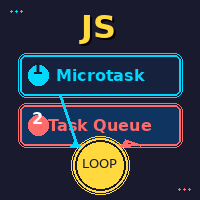
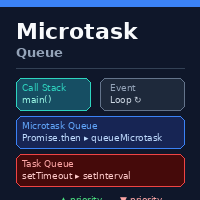
Oprava článku o microtask queue, nový náhledový obrázek
- Opraven nesmyslný příklad "Aktualizace stavu před renderingem"
  (microtask by nikdy nezobrazil "Načítání..." před aktualizací)
- Přidány tagy: js-udalosti, webove-prohlizece
- Aktualizováno datum na 2026-01-28
- Nový moderní náhledový obrázek bez překrývajících se prvků

https://claude.ai/code/session_018s2YHQ8RtaqcJzRQXFXm9V

diff --git a/content/posts/microtask-queue.md b/content/posts/microtask-queue.md
@@ -2,10 +2,10 @@
 title: "Microtask queue v JavaScriptu"
 headline: "Microtask queue v JavaScriptu"
 description: "Jak funguje microtask queue, event loop a v jakém pořadí se spouští asynchronní kód v JavaScriptu."
-date: "2025-12-12"
-last_modification: "2025-12-12"
+date: "2026-01-28"
+last_modification: "2026-01-28"
 status: 1
-tags: ["js", "async"]
+tags: ["js", "async", "js-udalosti", "webove-prohlizece"]
 format: "html"
 ---
 
@@ -761,15 +761,22 @@ setTimeout(() => {
 
 <h2 id="prakticke-vyuziti">Praktické využití</h2>
 
-<h3 id="aktualizace-stavu">Aktualizace stavu před renderingem</h3>
+<h3 id="aktualizace-stavu">Zajištění konzistentního stavu</h3>
 
-<p>Microtasky se hodí pro operace, které mají být provedeny před dalším renderingem stránky:</p>
+<p>Microtasky se hodí, když potřebujete provést dokončovací logiku po synchronním kódu, ale ještě před renderingem:</p>
 
-<pre><code>element.textContent = 'Načítání...';
+<pre><code>// Nastavíme více hodnot synchronně
+element.dataset.loading = 'true';
+element.textContent = '';
 
+// V microtasku zajistíme konzistentní stav
+// před tím, než prohlížeč vykreslí změny
 queueMicrotask(() => {
-  // Aktualizace dat před renderingem
-  element.textContent = nactiData();
+  const data = cache.get('key');
+  if (data) {
+    element.textContent = data;
+    element.dataset.loading = 'false';
+  }
 });
 </code></pre>
 
